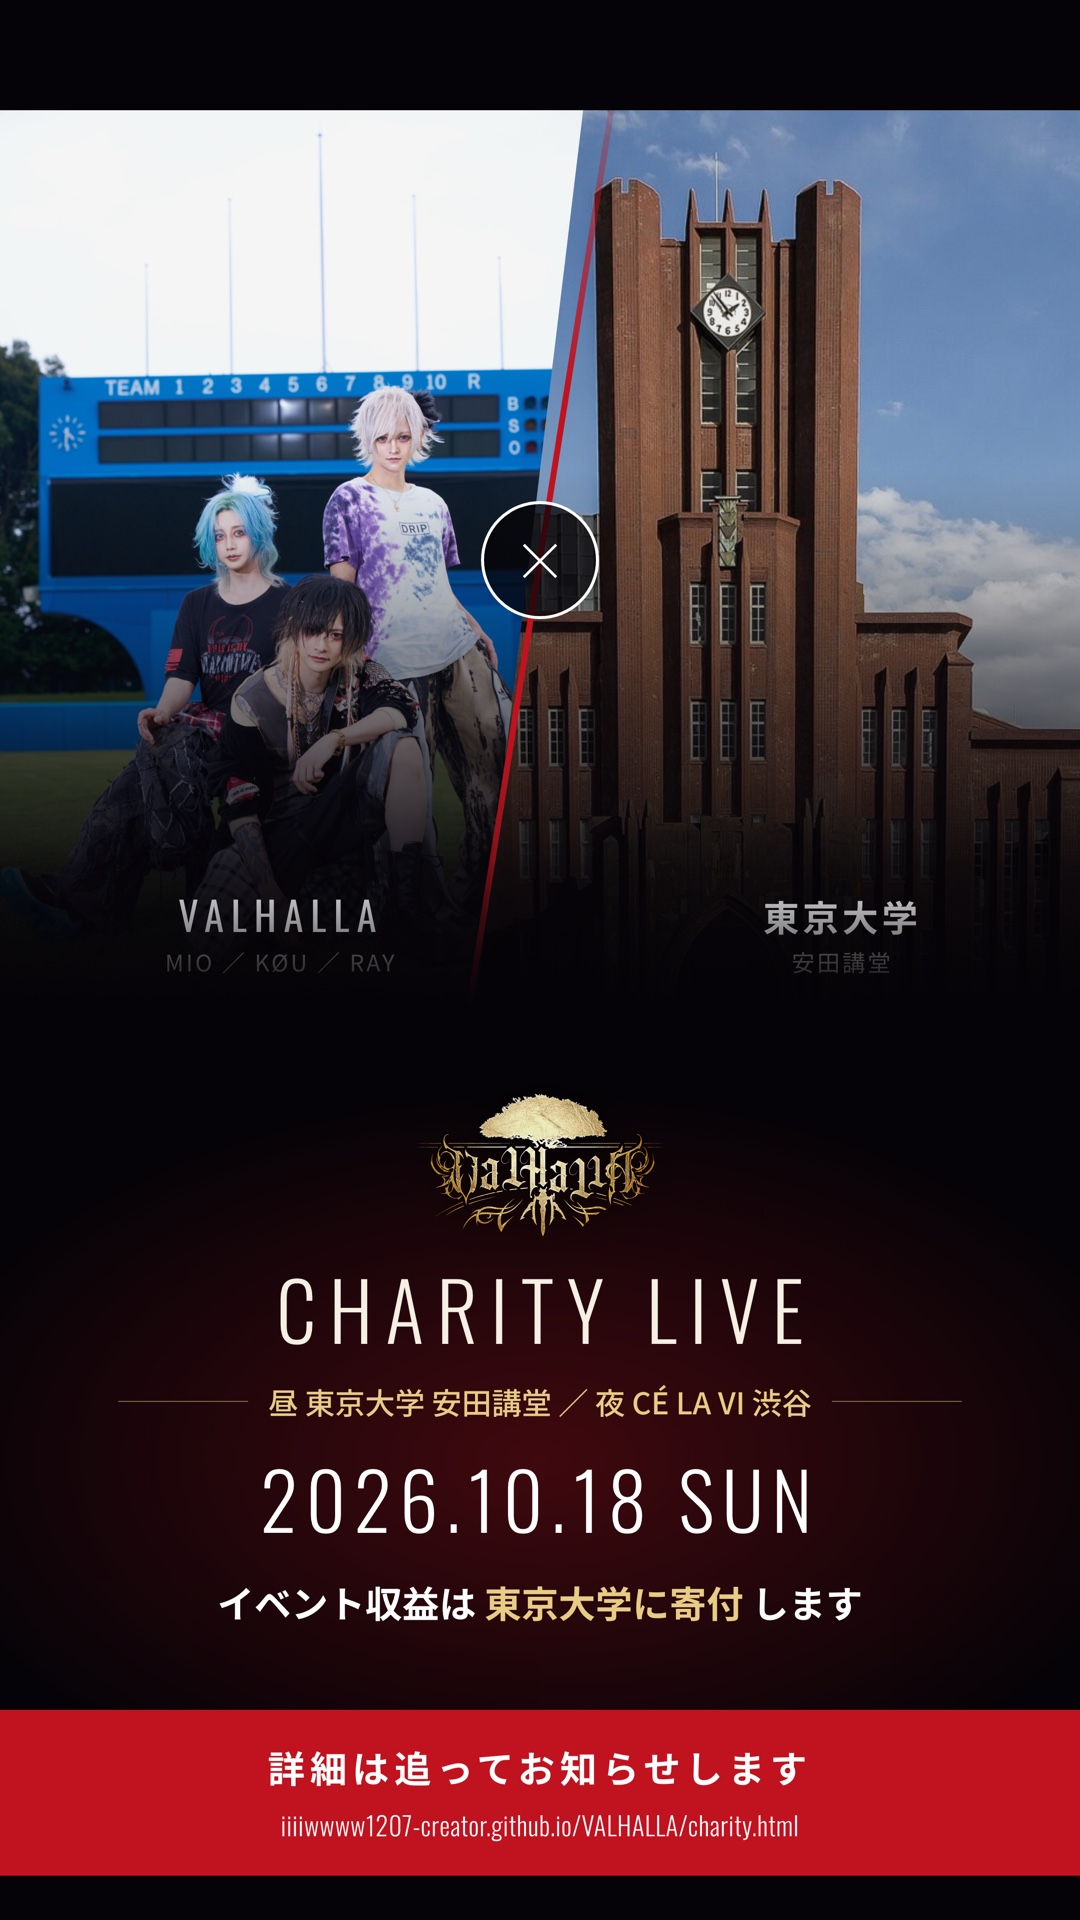
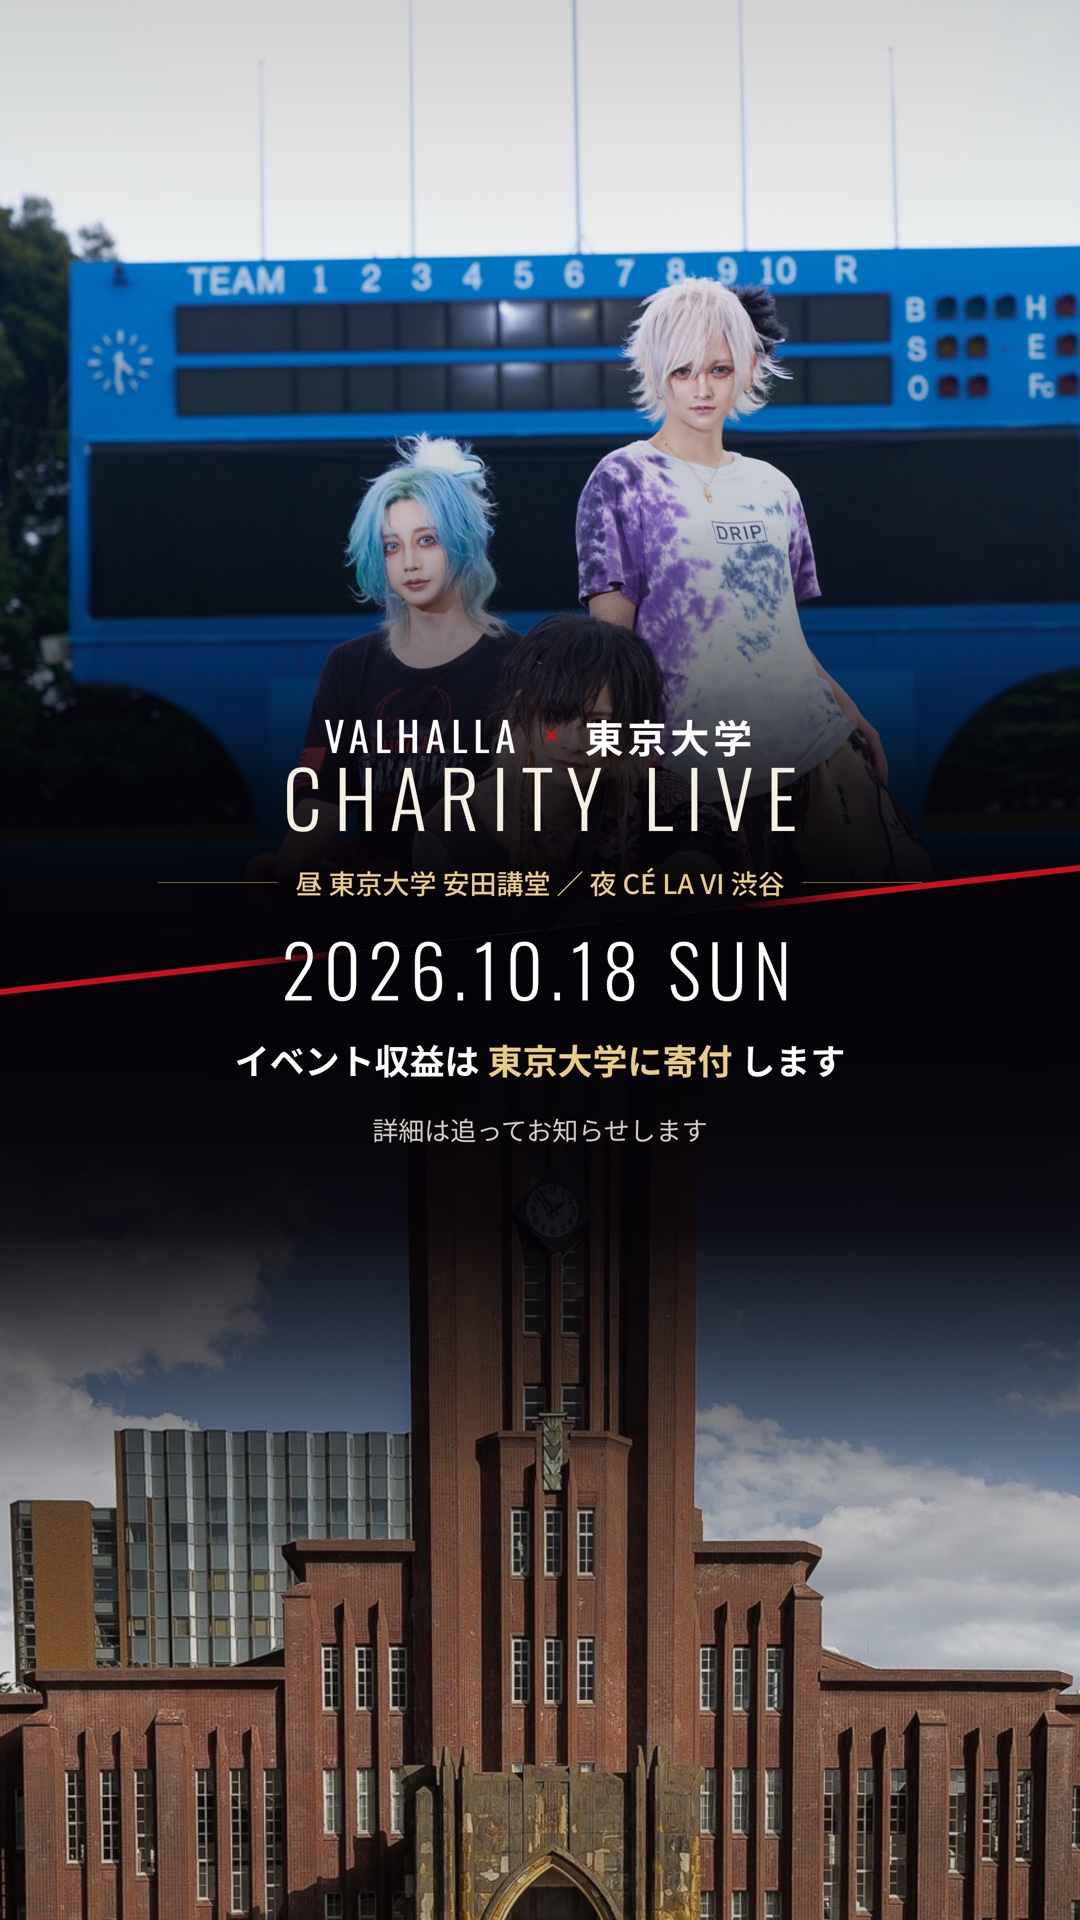
告知ティザーを横の斜めスラッシュ構成に作り替え
kazuma 指示。縦の分割 → 横の斜めスラッシュで上下に分割。

- 上半分 = VALHALLA（3人）／下半分 = 東京大学 安田講堂
- 上端・下端に向かうほど写真がくっきり、中央に向かうほど暗く落とす
  （.up::after / .dn::after のグラデで中央に黒い帯を作る）
- その暗い帯に「VALHALLA × 東京大学 / CHARITY LIVE / 日付 / 会場 / 寄付」を配置
- クリムゾンの斜線は文字を横切っていたため、中央を透明にして
  文字の左右にだけ走るようにした
- 端のラベルは中央の「VALHALLA × 東京大学」と重複するので廃止し、
  上端・下端は写真だけを見せる
- 下半分の安田講堂は寄りすぎていたので引いて建物全体＋時計塔が入るように

3サイズ（1080x1350 / 1080x1080 / 1080x1920）とも
3人の顔と安田講堂が見えることを描画で確認済み。

diff --git a/flyer-teaser.html b/flyer-teaser.html
@@ -9,16 +9,16 @@
 <style>
   /* ==========================================================
      告知用ティザー（内容確定前の第一報）
-     狙い: 「東京大学 × VALHALLA」を最大に見せる。それ以外は捨てる。
-       ・価格／タイムテーブル／席の特典／社塾／シャンパンコールは載せない
-       ・LPの2分割ヒーロー（赤い斜線＋白丸の ×）を主役に据える
-     ⚠ 「コラボ／共催／後援」は東大の許諾が要る表現のため使わない。
-        事実（昼の本編の会場・収益の寄付先）のまま最大化する。
+     構成（kazuma 指示 2026-08-28）:
+       ・画面を「横の斜めスラッシュ」で上下に分割
+       ・上半分 = VALHALLA（上端に向かうほどくっきり）
+       ・下半分 = 東京大学 安田講堂（下端に向かうほどくっきり）
+       ・中央は暗く落とし、そこに文字を置く
+     ⚠「コラボ／共催／後援」は東大の許諾が要る表現のため使わない。
      ========================================================== */
   :root{
     --bg:#050307; --ink:#F5EFE4; --sub:rgba(245,239,228,.74);
-    --line:rgba(255,255,255,.14); --rule:rgba(232,203,133,.5);
-    --gold:#E8CB85; --grey-d:#9C9CA4; --crimson:#C1121F;
+    --rule:rgba(232,203,133,.5); --gold:#E8CB85; --grey-d:#9C9CA4; --crimson:#C1121F;
   }
   *{box-sizing:border-box;margin:0;padding:0;border-radius:0}
   html,body{background:#141416}
@@ -27,203 +27,182 @@
        align-items:center;gap:40px;padding:40px 0}
 
   .board{position:relative;width:1080px;overflow:hidden;background:var(--bg);
-    display:flex;flex-direction:column;isolation:isolate;
+    isolation:isolate;
+    /* 斜めの落差（左端が下・右端が上）。全サイズ共通で角度を揃える */
+    --drop:62px;
     -webkit-print-color-adjust:exact;print-color-adjust:exact}
-  .board.t45{height:1350px}
-  .board.t11{height:1080px}
-  .board.t916{height:1920px}
+  .board.t45{height:1350px;--mid:640px}
+  .board.t11{height:1080px;--mid:512px}
+  .board.t916{height:1920px;--mid:930px}
 
-  .glow{position:absolute;inset:0;z-index:-1;
-    background:radial-gradient(ellipse 80% 26% at 50% 76%, rgba(176,20,28,.34), transparent 74%)}
+  /* ── 上半分：VALHALLA ── */
+  .up{position:absolute;inset:0;z-index:0;background-repeat:no-repeat;
+    clip-path:polygon(0 0,100% 0,100% calc(var(--mid) - var(--drop)),0 calc(var(--mid) + var(--drop)))}
+  /* ── 下半分：東京大学 安田講堂 ── */
+  .dn{position:absolute;inset:0;z-index:0;background-repeat:no-repeat;
+    clip-path:polygon(0 calc(var(--mid) + var(--drop)),100% calc(var(--mid) - var(--drop)),100% 100%,0 100%)}
 
-  /* ── 2分割ビジュアル（VALHALLA × 東京大学） ── */
-  .split{position:relative;flex:none;overflow:hidden;background:#000}
-  .split .a{position:absolute;left:0;top:0;width:56%;height:100%;
-    background-image:linear-gradient(180deg,rgba(5,3,7,.04) 40%,rgba(5,3,7,.45) 62%,rgba(5,3,7,.9) 84%,rgba(5,3,7,.97) 100%),url('assets/charity/group_field.jpg');
-    background-size:cover,cover;background-repeat:no-repeat}
-  .split .b{position:absolute;inset:0;clip-path:polygon(54% 0,100% 0,100% 100%,44% 100%);
-    background-image:linear-gradient(180deg,rgba(5,3,7,.06) 40%,rgba(5,3,7,.45) 62%,rgba(5,3,7,.9) 84%,rgba(5,3,7,.97) 100%),url('assets/charity/venue/yasuda1.jpg');
-    background-size:cover,150% auto;background-repeat:no-repeat}
-  .split .line{position:absolute;top:-8%;left:50%;z-index:3;
-    background:linear-gradient(180deg,transparent,var(--crimson),var(--crimson),transparent);
-    transform:translateX(-50%) skewX(-9deg)}
-  .split .x{position:absolute;top:50%;left:50%;transform:translate(-50%,-50%);z-index:4;
-    border-radius:50%;background:rgba(5,3,7,.74);border:3px solid #fff;color:#fff;
-    display:flex;align-items:center;justify-content:center;font-weight:300;line-height:1}
-  .split .lab{position:absolute;bottom:0;z-index:4;color:#fff;text-align:center}
-  .split .lab b{display:block;font-family:'Oswald',sans-serif;font-weight:400;color:#fff;line-height:1}
-  .split .lab b.jp{font-family:"Noto Sans JP",sans-serif;font-weight:700}
-  .split .lab span{display:block;color:rgba(245,239,228,.72)}
-  .split .la{left:0;width:52%}
-  .split .lc{right:0;width:44%}
-  .split::after{content:"";position:absolute;left:0;right:0;bottom:0;z-index:5;
-    background:linear-gradient(transparent,var(--bg))}
+  /* 中央に向かって暗く落とすスクリム（写真の上に重ねる） */
+  .up::after,.dn::after{content:"";position:absolute;inset:0}
+  .up::after{background:linear-gradient(180deg,
+      rgba(5,3,7,.18) 0%, rgba(5,3,7,.06) 14%, rgba(5,3,7,.20) 27%,
+      rgba(5,3,7,.54) 35%, rgba(5,3,7,.86) 41%, rgba(5,3,7,.98) 46%, #050307 51%)}
+  .dn::after{background:linear-gradient(0deg,
+      rgba(5,3,7,.18) 0%, rgba(5,3,7,.08) 13%, rgba(5,3,7,.28) 23%,
+      rgba(5,3,7,.66) 30%, rgba(5,3,7,.92) 36%, rgba(5,3,7,.98) 42%, #050307 48%)}
 
-  /* ── 文字 ── */
-  .body{position:relative;z-index:2;text-align:center;flex:1;
-    display:flex;flex-direction:column;justify-content:center}
+  /* 分割の斜線（クリムゾン） */
+  .slash{position:absolute;left:-14%;width:128%;z-index:2;
+    top:calc(var(--mid) - 3px);height:6px;
+    background:linear-gradient(90deg,transparent 0,var(--crimson) 9%,var(--crimson) 27%,
+      transparent 36%,transparent 64%,var(--crimson) 73%,var(--crimson) 91%,transparent 100%);
+    transform:rotate(-6.55deg)}
+
+  /* 端に置く小さなラベル */
+  .tag{position:absolute;z-index:3;color:#fff;letter-spacing:.10em;
+    text-shadow:0 2px 14px rgba(5,3,7,.95),0 0 30px rgba(5,3,7,.8)}
+  .tag b{display:block;font-family:'Oswald',sans-serif;font-weight:400;letter-spacing:.20em;color:#fff}
+  .tag b.jp{font-family:"Noto Sans JP",sans-serif;font-weight:700;letter-spacing:.12em}
+  .tag span{display:block;color:rgba(245,239,228,.7)}
+  .tag.up-tag{left:0;right:0;text-align:center}
+  .tag.dn-tag{left:0;right:0;text-align:center}
+
+  /* ── 中央の文字 ── */
+  .body{position:absolute;left:0;right:0;z-index:4;text-align:center;
+    top:var(--mid);transform:translateY(-50%)}
+  .pair{font-weight:700;color:#fff;letter-spacing:.10em;line-height:1}
+  .pair i{font-style:normal;color:var(--crimson);font-weight:400;
+    font-family:'Oswald',sans-serif;margin:0 .5em}
+  .pair em{font-style:normal;font-family:'Oswald',sans-serif;font-weight:400;letter-spacing:.14em}
   .mark{display:block;margin:0 auto;filter:drop-shadow(0 6px 22px rgba(0,0,0,.9))}
   h1{font-family:'Oswald',sans-serif;font-weight:300;line-height:1.04;
     letter-spacing:.16em;text-indent:.16em;text-transform:uppercase;color:var(--ink)}
   .date{font-family:'Oswald',sans-serif;font-weight:300;letter-spacing:.10em;color:#fff;line-height:1}
-  .ruled{display:flex;align-items:center;justify-content:center;gap:20px}
-  .ruled::before,.ruled::after{content:"";height:1px;background:var(--rule);flex:1;max-width:130px}
+  .ruled{display:flex;align-items:center;justify-content:center;gap:18px}
+  .ruled::before,.ruled::after{content:"";height:1px;background:var(--rule);flex:1;max-width:120px}
   .ruled span{font-weight:500;color:var(--gold);white-space:nowrap}
   .donate{font-weight:700;color:#fff}
   .donate i{font-style:normal;color:var(--gold)}
-
-  .cta{background:var(--crimson);color:#fff;text-align:center;flex:none}
-  .cta b{display:block;font-weight:700;letter-spacing:.14em}
-  .cta u{display:block;font-family:'Oswald',sans-serif;font-weight:300;
-    text-decoration:none;letter-spacing:.02em;color:#fff}
+  .more{color:rgba(245,239,228,.86)}
+  .more u{display:block;font-family:'Oswald',sans-serif;font-weight:300;
+    text-decoration:none;color:var(--grey-d)}
 
   /* ---------- 1080x1350 ---------- */
-  .t45 .split{height:660px}
-  .t45 .split .a{background-position:center,center 40%}
-  .t45 .split .b{background-position:center,15% 35%}
-  .t45 .split .line{width:5px;height:116%}
-  .t45 .split .x{width:96px;height:96px;font-size:44px;padding-bottom:4px}
-  .t45 .split .lab{bottom:26px}
-  .t45 .split .lab b{font-size:34px;letter-spacing:.18em}
-  .t45 .split .lab b.jp{font-size:31px;letter-spacing:.10em}
-  .t45 .split .lab span{margin-top:9px;font-size:20px;letter-spacing:.10em}
-  .t45 .split::after{height:120px}
-  .t45 .body{padding:0 70px}
-  .t45 .mark{width:200px;margin-bottom:22px}
+  .t45 .up{background-image:url('assets/charity/group_field.jpg');
+    background-size:100% auto;background-position:center -492px}
+  .t45 .dn{background-image:url('assets/charity/venue/yasuda1.jpg');
+    background-size:145% auto;background-position:48% 640px}
+  .t45 .up-tag{top:34px}
+  .t45 .dn-tag{bottom:30px}
+  .t45 .tag b{font-size:29px}
+  .t45 .tag b.jp{font-size:27px}
+  .t45 .tag span{margin-top:8px;font-size:19px}
+  .t45 .pair{font-size:33px}
+  .t45 .pair i{font-size:36px}
+  .t45 .pair em{font-size:35px}
+  .t45 .mark{width:150px;margin:22px auto 16px}
   .t45 h1{font-size:66px}
-  .t45 .ruled{margin-top:24px}
-  .t45 .ruled span{font-size:25px}
-  .t45 .date{margin-top:28px;font-size:64px}
-  .t45 .donate{margin-top:30px;font-size:31px}
-  .t45 .cta{padding:24px 40px 26px}
-  .t45 .cta b{font-size:31px}
-  .t45 .cta u{margin-top:10px;font-size:23px}
+  .t45 .ruled{margin-top:20px}
+  .t45 .ruled span{font-size:23px}
+  .t45 .date{margin-top:24px;font-size:60px}
+  .t45 .donate{margin-top:24px;font-size:29px}
+  .t45 .more{margin-top:20px;font-size:22px}
+  .t45 .more u{margin-top:8px;font-size:20px}
 
   /* ---------- 1080x1080 ---------- */
-  .t11 .split{height:540px}
-  .t11 .split .a{background-position:center,center 40%}
-  .t11 .split .b{background-position:center,15% 35%}
-  .t11 .split .line{width:5px;height:116%}
-  .t11 .split .x{width:84px;height:84px;font-size:38px;padding-bottom:4px}
-  .t11 .split .lab{bottom:22px}
-  .t11 .split .lab b{font-size:30px;letter-spacing:.18em}
-  .t11 .split .lab b.jp{font-size:27px;letter-spacing:.10em}
-  .t11 .split .lab span{margin-top:8px;font-size:18px;letter-spacing:.10em}
-  .t11 .split::after{height:100px}
-  .t11 .body{padding:0 70px}
-  .t11 .mark{width:168px;margin-bottom:17px}
-  .t11 h1{font-size:56px}
-  .t11 .ruled{margin-top:19px}
-  .t11 .ruled span{font-size:22px}
-  .t11 .date{margin-top:22px;font-size:54px}
-  .t11 .donate{margin-top:22px;font-size:27px}
-  .t11 .cta{padding:19px 40px 21px}
-  .t11 .cta b{font-size:28px}
-  .t11 .cta u{margin-top:8px;font-size:21px}
+  .t11 .up{background-image:url('assets/charity/group_field.jpg');
+    background-size:100% auto;background-position:center -484px}
+  .t11 .dn{background-image:url('assets/charity/venue/yasuda1.jpg');
+    background-size:145% auto;background-position:48% 510px}
+  .t11 .up-tag{top:28px}
+  .t11 .dn-tag{bottom:24px}
+  .t11 .tag b{font-size:26px}
+  .t11 .tag b.jp{font-size:24px}
+  .t11 .tag span{margin-top:7px;font-size:18px}
+  .t11 .pair{font-size:29px}
+  .t11 .pair i{font-size:32px}
+  .t11 .pair em{font-size:31px}
+  .t11 .mark{width:126px;margin:17px auto 13px}
+  .t11 h1{font-size:55px}
+  .t11 .ruled{margin-top:16px}
+  .t11 .ruled span{font-size:20px}
+  .t11 .date{margin-top:19px;font-size:50px}
+  .t11 .donate{margin-top:19px;font-size:26px}
+  .t11 .more{margin-top:16px;font-size:20px}
+  .t11 .more u{margin-top:7px;font-size:18px}
 
-  /* ---------- 1080x1920（ストーリー／リール） ---------- */
-  .t916{padding:110px 0 44px}
-  .t916 .split{height:900px}
-  .t916 .split .a{background-position:center,center 40%}
-  .t916 .split .b{background-position:center,15% 35%}
-  .t916 .split .line{width:6px;height:116%}
-  .t916 .split .x{width:118px;height:118px;font-size:54px;padding-bottom:5px}
-  .t916 .split .lab{bottom:32px}
-  .t916 .split .lab b{font-size:40px;letter-spacing:.18em}
-  .t916 .split .lab b.jp{font-size:36px;letter-spacing:.10em}
-  .t916 .split .lab span{margin-top:11px;font-size:23px;letter-spacing:.10em}
-  .t916 .split::after{height:150px}
-  .t916 .body{padding:0 80px}
-  .t916 .mark{width:250px;margin-bottom:28px}
-  .t916 h1{font-size:80px}
-  .t916 .ruled{margin-top:30px}
-  .t916 .ruled span{font-size:30px}
-  .t916 .date{margin-top:36px;font-size:78px}
-  .t916 .donate{margin-top:38px;font-size:37px}
-  .t916 .cta{padding:30px 40px 32px}
-  .t916 .cta b{font-size:37px}
-  .t916 .cta u{margin-top:12px;font-size:26px}
+  /* ---------- 1080x1920 ---------- */
+  .t916 .up{background-image:url('assets/charity/group_field.jpg');
+    background-size:100% auto;background-position:center -220px}
+  .t916 .dn{background-image:url('assets/charity/venue/yasuda1.jpg');
+    background-size:165% auto;background-position:48% 930px}
+  .t916 .up-tag{top:150px}
+  .t916 .dn-tag{bottom:120px}
+  .t916 .tag b{font-size:34px}
+  .t916 .tag b.jp{font-size:32px}
+  .t916 .tag span{margin-top:10px;font-size:22px}
+  .t916 .pair{font-size:39px}
+  .t916 .pair i{font-size:43px}
+  .t916 .pair em{font-size:41px}
+  .t916 .mark{width:180px;margin:28px auto 20px}
+  .t916 h1{font-size:78px}
+  .t916 .ruled{margin-top:26px}
+  .t916 .ruled span{font-size:27px}
+  .t916 .date{margin-top:30px;font-size:72px}
+  .t916 .donate{margin-top:30px;font-size:35px}
+  .t916 .more{margin-top:26px;font-size:26px}
+  .t916 .more u{margin-top:9px;font-size:23px}
 </style>
 </head>
 <body>
 
 <section class="board t45">
-  <div class="glow"></div>
+  <div class="up"></div>
+  <div class="dn"></div>
+  <div class="slash"></div>
 
-  <div class="split">
-    <div class="a"></div>
-    <div class="b"></div>
-    <div class="line"></div>
-    <div class="x">×</div>
-    <div class="lab la"><b>VALHALLA</b><span>MIO ／ KØU ／ RAY</span></div>
-    <div class="lab lc"><b class="jp">東京大学</b><span>安田講堂</span></div>
-  </div>
 
   <div class="body">
-    <img class="mark" src="assets/charity/logo_gold.webp" alt="VALHALLA">
+    <div class="pair"><em>VALHALLA</em><i>×</i>東京大学</div>
     <h1>Charity Live</h1>
     <div class="ruled"><span>昼 東京大学 安田講堂 ／ 夜 CÉ LA VI 渋谷</span></div>
     <div class="date">2026.10.18 SUN</div>
     <div class="donate">イベント収益は <i>東京大学に寄付</i> します</div>
-  </div>
-
-  <div class="cta">
-    <b>詳細は追ってお知らせします</b>
-    <u>iiiiwwww1207-creator.github.io/VALHALLA/charity.html</u>
+    <div class="more">詳細は追ってお知らせします</div>
   </div>
 </section>
 
 
 <section class="board t11">
-  <div class="glow"></div>
+  <div class="up"></div>
+  <div class="dn"></div>
+  <div class="slash"></div>
 
-  <div class="split">
-    <div class="a"></div>
-    <div class="b"></div>
-    <div class="line"></div>
-    <div class="x">×</div>
-    <div class="lab la"><b>VALHALLA</b><span>MIO ／ KØU ／ RAY</span></div>
-    <div class="lab lc"><b class="jp">東京大学</b><span>安田講堂</span></div>
-  </div>
 
   <div class="body">
-    <img class="mark" src="assets/charity/logo_gold.webp" alt="VALHALLA">
+    <div class="pair"><em>VALHALLA</em><i>×</i>東京大学</div>
     <h1>Charity Live</h1>
     <div class="ruled"><span>昼 東京大学 安田講堂 ／ 夜 CÉ LA VI 渋谷</span></div>
     <div class="date">2026.10.18 SUN</div>
     <div class="donate">イベント収益は <i>東京大学に寄付</i> します</div>
-  </div>
-
-  <div class="cta">
-    <b>詳細は追ってお知らせします</b>
-    <u>iiiiwwww1207-creator.github.io/VALHALLA/charity.html</u>
+    <div class="more">詳細は追ってお知らせします</div>
   </div>
 </section>
 
 
 <section class="board t916">
-  <div class="glow"></div>
+  <div class="up"></div>
+  <div class="dn"></div>
+  <div class="slash"></div>
 
-  <div class="split">
-    <div class="a"></div>
-    <div class="b"></div>
-    <div class="line"></div>
-    <div class="x">×</div>
-    <div class="lab la"><b>VALHALLA</b><span>MIO ／ KØU ／ RAY</span></div>
-    <div class="lab lc"><b class="jp">東京大学</b><span>安田講堂</span></div>
-  </div>
 
   <div class="body">
-    <img class="mark" src="assets/charity/logo_gold.webp" alt="VALHALLA">
+    <div class="pair"><em>VALHALLA</em><i>×</i>東京大学</div>
     <h1>Charity Live</h1>
     <div class="ruled"><span>昼 東京大学 安田講堂 ／ 夜 CÉ LA VI 渋谷</span></div>
     <div class="date">2026.10.18 SUN</div>
     <div class="donate">イベント収益は <i>東京大学に寄付</i> します</div>
-  </div>
-
-  <div class="cta">
-    <b>詳細は追ってお知らせします</b>
-    <u>iiiiwwww1207-creator.github.io/VALHALLA/charity.html</u>
+    <div class="more">詳細は追ってお知らせします</div>
   </div>
 </section>
 

diff --git a/docs/celavi-afterparty.md b/docs/celavi-afterparty.md
@@ -122,7 +122,11 @@
     - `assets/charity/flyer/teaser/teaser_1080x1350.jpg` ／ `_1080x1080.jpg` ／ `_1080x1920.jpg`
     - 狙い（kazuma 指示 2026-08-28）: 内容が未確定なので**簡素に**。
       **「東京大学 × VALHALLA」を最大に見せる**ことだけに絞る
-    - 載せるもの: 2分割ビジュアル（VALHALLA｜安田講堂＋赤い斜線＋白丸の×）／
+    - 構成（kazuma 指示 2026-08-28。縦分割→**横の斜めスラッシュ**に変更）:
+      画面を斜めの線で上下に割り、**上半分＝VALHALLA／下半分＝東京大学 安田講堂**。
+      上端・下端に向かうほど写真がくっきり、中央に向かうほど暗く落として、
+      その暗い帯に文字を置く。斜線（クリムゾン）は文字を避けて左右にだけ走らせる。
+    - 載せるもの: VALHALLA × 東京大学 ／
       CHARITY LIVE ／ 日付 ／ 昼夜の会場 ／ 収益は東大へ寄付 ／「詳細は追ってお知らせします」
     - 載せないもの: 価格・タイムテーブル・席の特典・社塾・シャンパンコール
     - 🔴 **「コラボ／共催／後援」の語は使っていない**。東大の許諾が要る表現のため。
